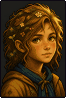
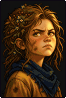
fix: the reasons name an event, not an intent
Ash's line was the only one that worked as motivation and the reason is structural: it
names a concrete thing that HAPPENED — a town scorched off the map, a man left in the
ashes — and never once says revenge. The want is inferred, which is why it lands.

The other five announced their intent instead. 'She hunts demons', 'she means to have
it', 'he came to see', 'looking for a cure', 'came to end the corruption' — those are
briefs for a line, not lines. All five now name an event in the past and let the want
be read off it:

  KELA  the eleventh demon she buried climbed back out of the ground
  ZEL   two academies threw her out, the second one on fire
  VANE  a wind came up out of a hole that should have had no air in it
  VESS  the rot took his hands a year ago and is at his elbows now
  YEW   the forest she kept turned black from the roots up

YEW's portrait re-cut with an actual expression. Every previous prompt for her carried
adjectives — whimsical, natural, hopeful — and no direction for her FACE, which is how
she came back twice with none. She is now scowling, chin up, defiant with fear under it:
a child nobody would listen to who came down anyway.

diff --git a/src/game/wizards.ts b/src/game/wizards.ts
@@ -117,7 +117,7 @@ export const WIZARDS: readonly Wizard[] = [
     id: 'frost',
     name: 'KELA',
     title: 'the Wintermaiden',
-    reason: 'She hunts demons. The deepest ones are down here.',
+    reason: 'The eleventh demon she buried climbed back out of the ground.',
     backstory: 'Kela has killed eleven demons for money and buried all eleven properly. '
       + 'The seventh came back. She found it wearing the face of the man who had paid her '
       + 'to remove it, sitting at his own table, and she understood that killing is not a '
@@ -139,7 +139,7 @@ export const WIZARDS: readonly Wizard[] = [
     id: 'spark',
     name: 'ZEL',
     title: 'the Stormwright',
-    reason: 'There is power down there and she means to have it.',
+    reason: 'Two academies threw her out, the second one on fire.',
     backstory: 'Zel was thrown out of two academies, the second one on fire. She is not '
       + 'grieving anybody and nothing was taken from her; she simply worked out, younger '
       + 'than was good for her, that the deep floors of the library hold charges nothing '
@@ -159,7 +159,7 @@ export const WIZARDS: readonly Wizard[] = [
     id: 'gust',
     name: 'VANE',
     title: 'the Windwalker',
-    reason: 'He came to see what is down here.',
+    reason: 'A wind came up out of a hole that should have had no air in it.',
     backstory: 'Vane has no dead to speak of and no debt anybody is collecting. He walks, '
       + 'and he has walked most places worth walking, and one afternoon he noticed a '
       + 'draught coming up out of a hole in a drowned library — a real wind, from a depth '
@@ -181,7 +181,7 @@ export const WIZARDS: readonly Wizard[] = [
     id: 'rot',
     name: 'VESS',
     title: 'the Plaguebound',
-    reason: 'He is rotting and looking for a cure.',
+    reason: 'The rot took his hands a year ago and is at his elbows now.',
     backstory: 'Vess was the physician the town sent for, and he was good at it, right up '
       + 'until the thing he was treating started treating him back. The black is in his '
       + 'arms to the elbow now and climbing. He has read every book above ground on the '
@@ -201,7 +201,7 @@ export const WIZARDS: readonly Wizard[] = [
     id: 'plant',
     name: 'YEW',
     title: 'the Greenwarden',
-    reason: 'She came to end the corruption at its root.',
+    reason: 'The forest she kept turned black from the roots up.',
     backstory: 'Yew is the youngest person to go down, and she went because nobody older '
       + 'would listen. She keeps the green on the surface — it is the only work she has '
       + 'ever wanted — and this spring it started coming up wrong: roots in the wrong '
